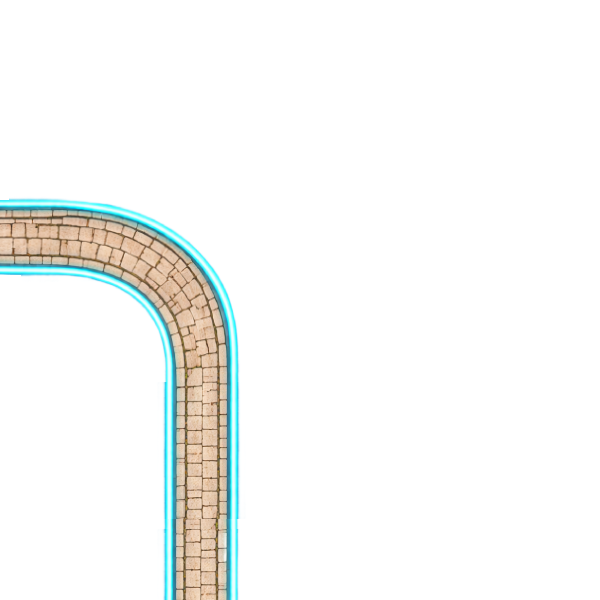
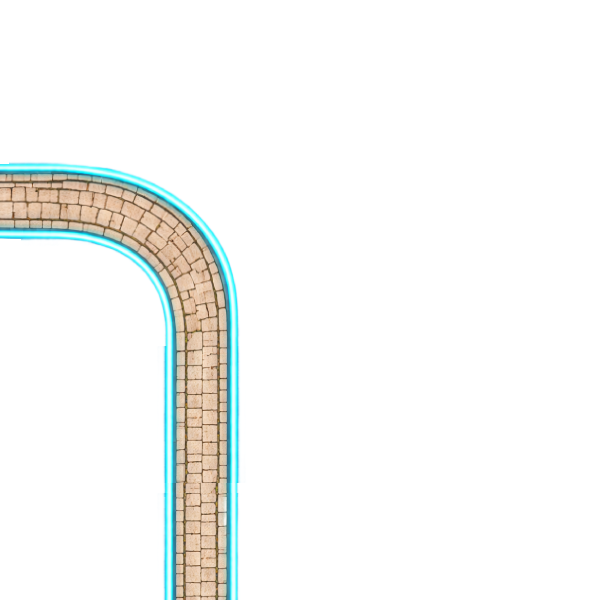
Feat(cards): Update card connection definitions and assets
The connection data for all 20 cards has been systematically updated to reflect a new connection pattern. This change ensures the game's card mechanics align with updated gameplay rules and visual representations. Two card image assets have also been updated to match the new connection logic.

**Turkish**
Tüm 20 kart için bağlantı verileri, yeni bir bağlantı desenini yansıtacak şekilde sistematik olarak güncellendi. Bu değişiklik, oyunun kart mekaniğinin güncellenmiş oyun kuralları ve görsel temsillerle uyumlu olmasını sağlar. Ayrıca, yeni bağlantı mantığıyla eşleşmesi için iki kart görsel varlığı güncellendi.

Changed region(s): [[0.0, 0.27, 0.42, 1.0]]

diff --git a/src/data/CardDefinitions.ts b/src/data/CardDefinitions.ts
@@ -11,8 +11,8 @@ export const CardDefinitions: CardDefinition[] = [
     id:"card_01",
     sprite:"card_01",
     connections:[
-        [1,2],
-        [5,6]
+        [1,6],
+        [2,5]
     ]
 },
 
@@ -20,8 +20,8 @@ export const CardDefinitions: CardDefinition[] = [
     id:"card_02",
     sprite:"card_02",
     connections:[
-        [3,8],
-        [5,6]
+        [1,3],
+        [2,4]
     ]
 },
 
@@ -29,8 +29,8 @@ export const CardDefinitions: CardDefinition[] = [
     id:"card_03",
     sprite:"card_03",
     connections:[
-        [2,4],
-        [5,6]
+        [1,3],
+        [2,5]
     ]
 },
 
@@ -38,8 +38,8 @@ export const CardDefinitions: CardDefinition[] = [
     id:"card_04",
     sprite:"card_04",
     connections:[
-        [1,6],
-        [2,4]
+        [1,3],
+        [2,6]
     ]
 },
 
@@ -47,8 +47,8 @@ export const CardDefinitions: CardDefinition[] = [
     id:"card_05",
     sprite:"card_05",
     connections:[
-        [1,7],
-        [2,4]
+        [1,3],
+        [2,7]
     ]
 },
 
@@ -56,8 +56,8 @@ export const CardDefinitions: CardDefinition[] = [
     id:"card_06",
     sprite:"card_06",
     connections:[
-        [1,7],
-        [3,5]
+        [1,3],
+        [2,8]
     ]
 },
 
@@ -65,8 +65,8 @@ export const CardDefinitions: CardDefinition[] = [
     id:"card_07",
     sprite:"card_07",
     connections:[
-        [1,6],
-        [3,7]
+        [1,3],
+        [4,5]
     ]
 },
 
@@ -74,8 +74,8 @@ export const CardDefinitions: CardDefinition[] = [
     id:"card_08",
     sprite:"card_08",
     connections:[
-        [2,5],
-        [3,7]
+        [1,3],
+        [4,6]
     ]
 },
 
@@ -83,8 +83,8 @@ export const CardDefinitions: CardDefinition[] = [
     id:"card_09",
     sprite:"card_09",
     connections:[
-        [1,5],
-        [2,6]
+        [1,3],
+        [4,7]
     ]
 },
 
@@ -92,8 +92,8 @@ export const CardDefinitions: CardDefinition[] = [
     id:"card_10",
     sprite:"card_10",
     connections:[
-        [1,5],
-        [4,7]
+        [1,3],
+        [4,8]
     ]
 },
 
@@ -101,8 +101,8 @@ export const CardDefinitions: CardDefinition[] = [
     id:"card_11",
     sprite:"card_11",
     connections:[
-        [2,6],
-        [7,8]
+        [1,3],
+        [5,7]
     ]
 },
 
@@ -110,8 +110,8 @@ export const CardDefinitions: CardDefinition[] = [
     id:"card_12",
     sprite:"card_12",
     connections:[
-        [1,5],
-        [7,8]
+        [1,3],
+        [5,8]
     ]
 },
 
@@ -119,8 +119,8 @@ export const CardDefinitions: CardDefinition[] = [
     id:"card_13",
     sprite:"card_13",
     connections:[
-        [1,7],
-        [2,3]
+        [1,3],
+        [6,7]
     ]
 },
 
@@ -128,8 +128,8 @@ export const CardDefinitions: CardDefinition[] = [
     id:"card_14",
     sprite:"card_14",
     connections:[
-        [1,5],
-        [2,3]
+        [1,3],
+        [6,8]
     ]
 },
 
@@ -137,7 +137,7 @@ export const CardDefinitions: CardDefinition[] = [
     id:"card_15",
     sprite:"card_15",
     connections:[
-        [1,6],
+        [1,4],
         [2,3]
     ]
 },
@@ -146,8 +146,8 @@ export const CardDefinitions: CardDefinition[] = [
     id:"card_16",
     sprite:"card_16",
     connections:[
-        [2,3],
-        [4,7]
+        [1,4],
+        [2,5]
     ]
 },
 
@@ -155,8 +155,8 @@ export const CardDefinitions: CardDefinition[] = [
     id:"card_17",
     sprite:"card_17",
     connections:[
-        [2,3],
-        [4,8]
+        [1,4],
+        [2,6]
     ]
 },
 
@@ -164,8 +164,8 @@ export const CardDefinitions: CardDefinition[] = [
     id:"card_18",
     sprite:"card_18",
     connections:[
-        [3,5],
-        [4,8]
+        [1,4],
+        [2,7]
     ]
 },
 
@@ -173,8 +173,8 @@ export const CardDefinitions: CardDefinition[] = [
     id:"card_19",
     sprite:"card_19",
     connections:[
-        [1,8],
-        [2,3]
+        [1,4],
+        [2,8]
     ]
 },
 
@@ -182,9 +182,9 @@ export const CardDefinitions: CardDefinition[] = [
     id:"card_20",
     sprite:"card_20",
     connections:[
-        [1,8],
-        [4,5]
+        [1,4],
+        [3,7]
     ]
-}
+},
 
 ]
